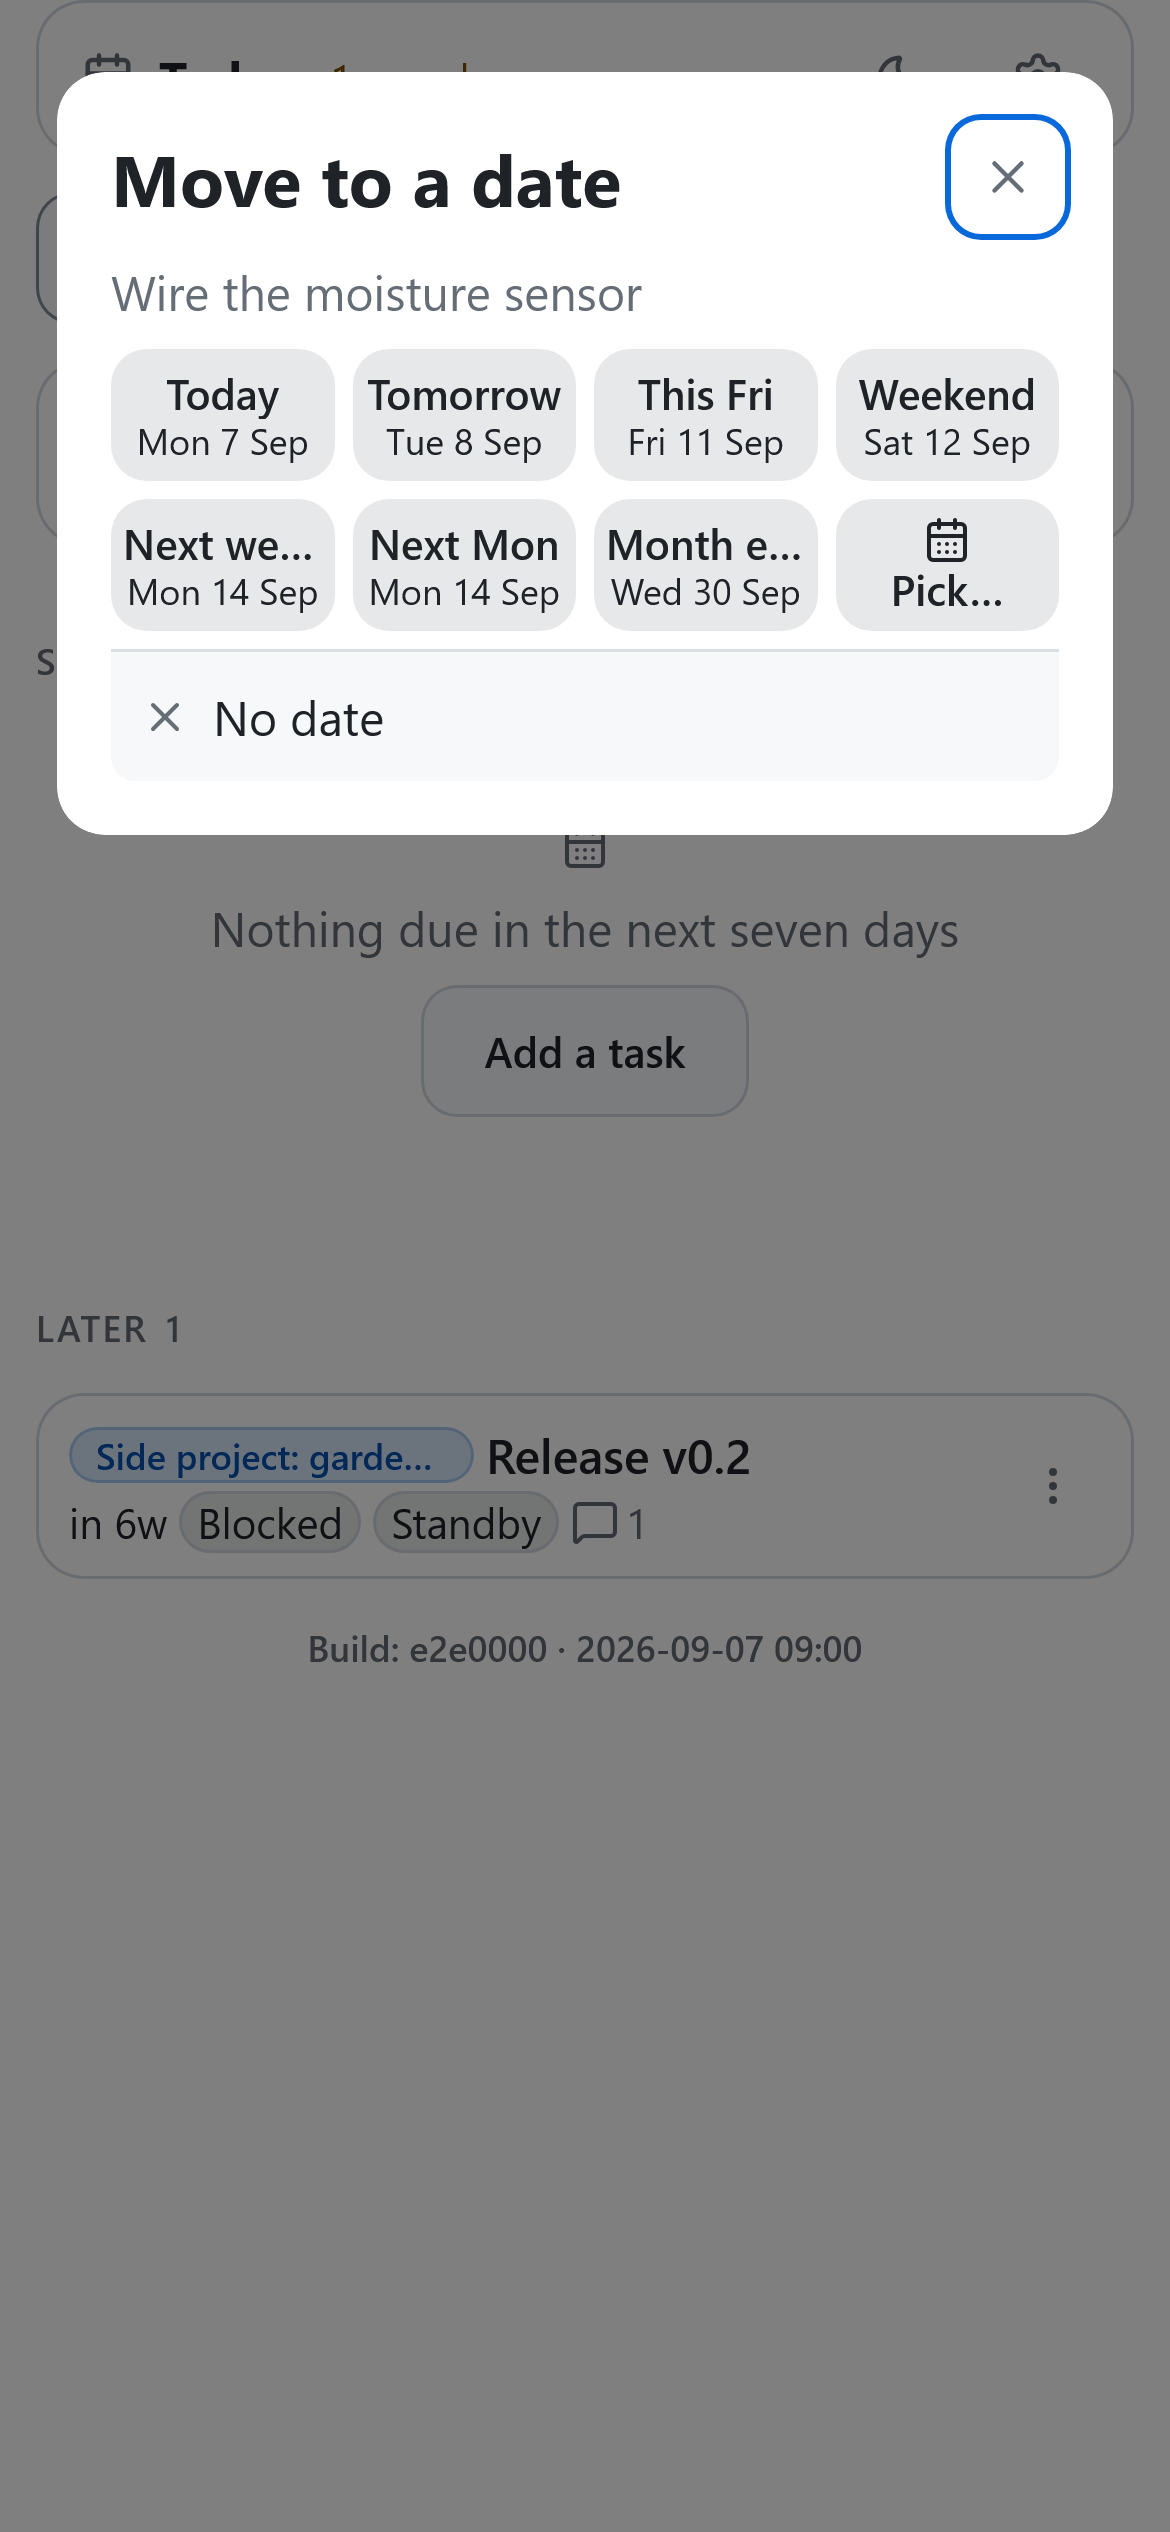
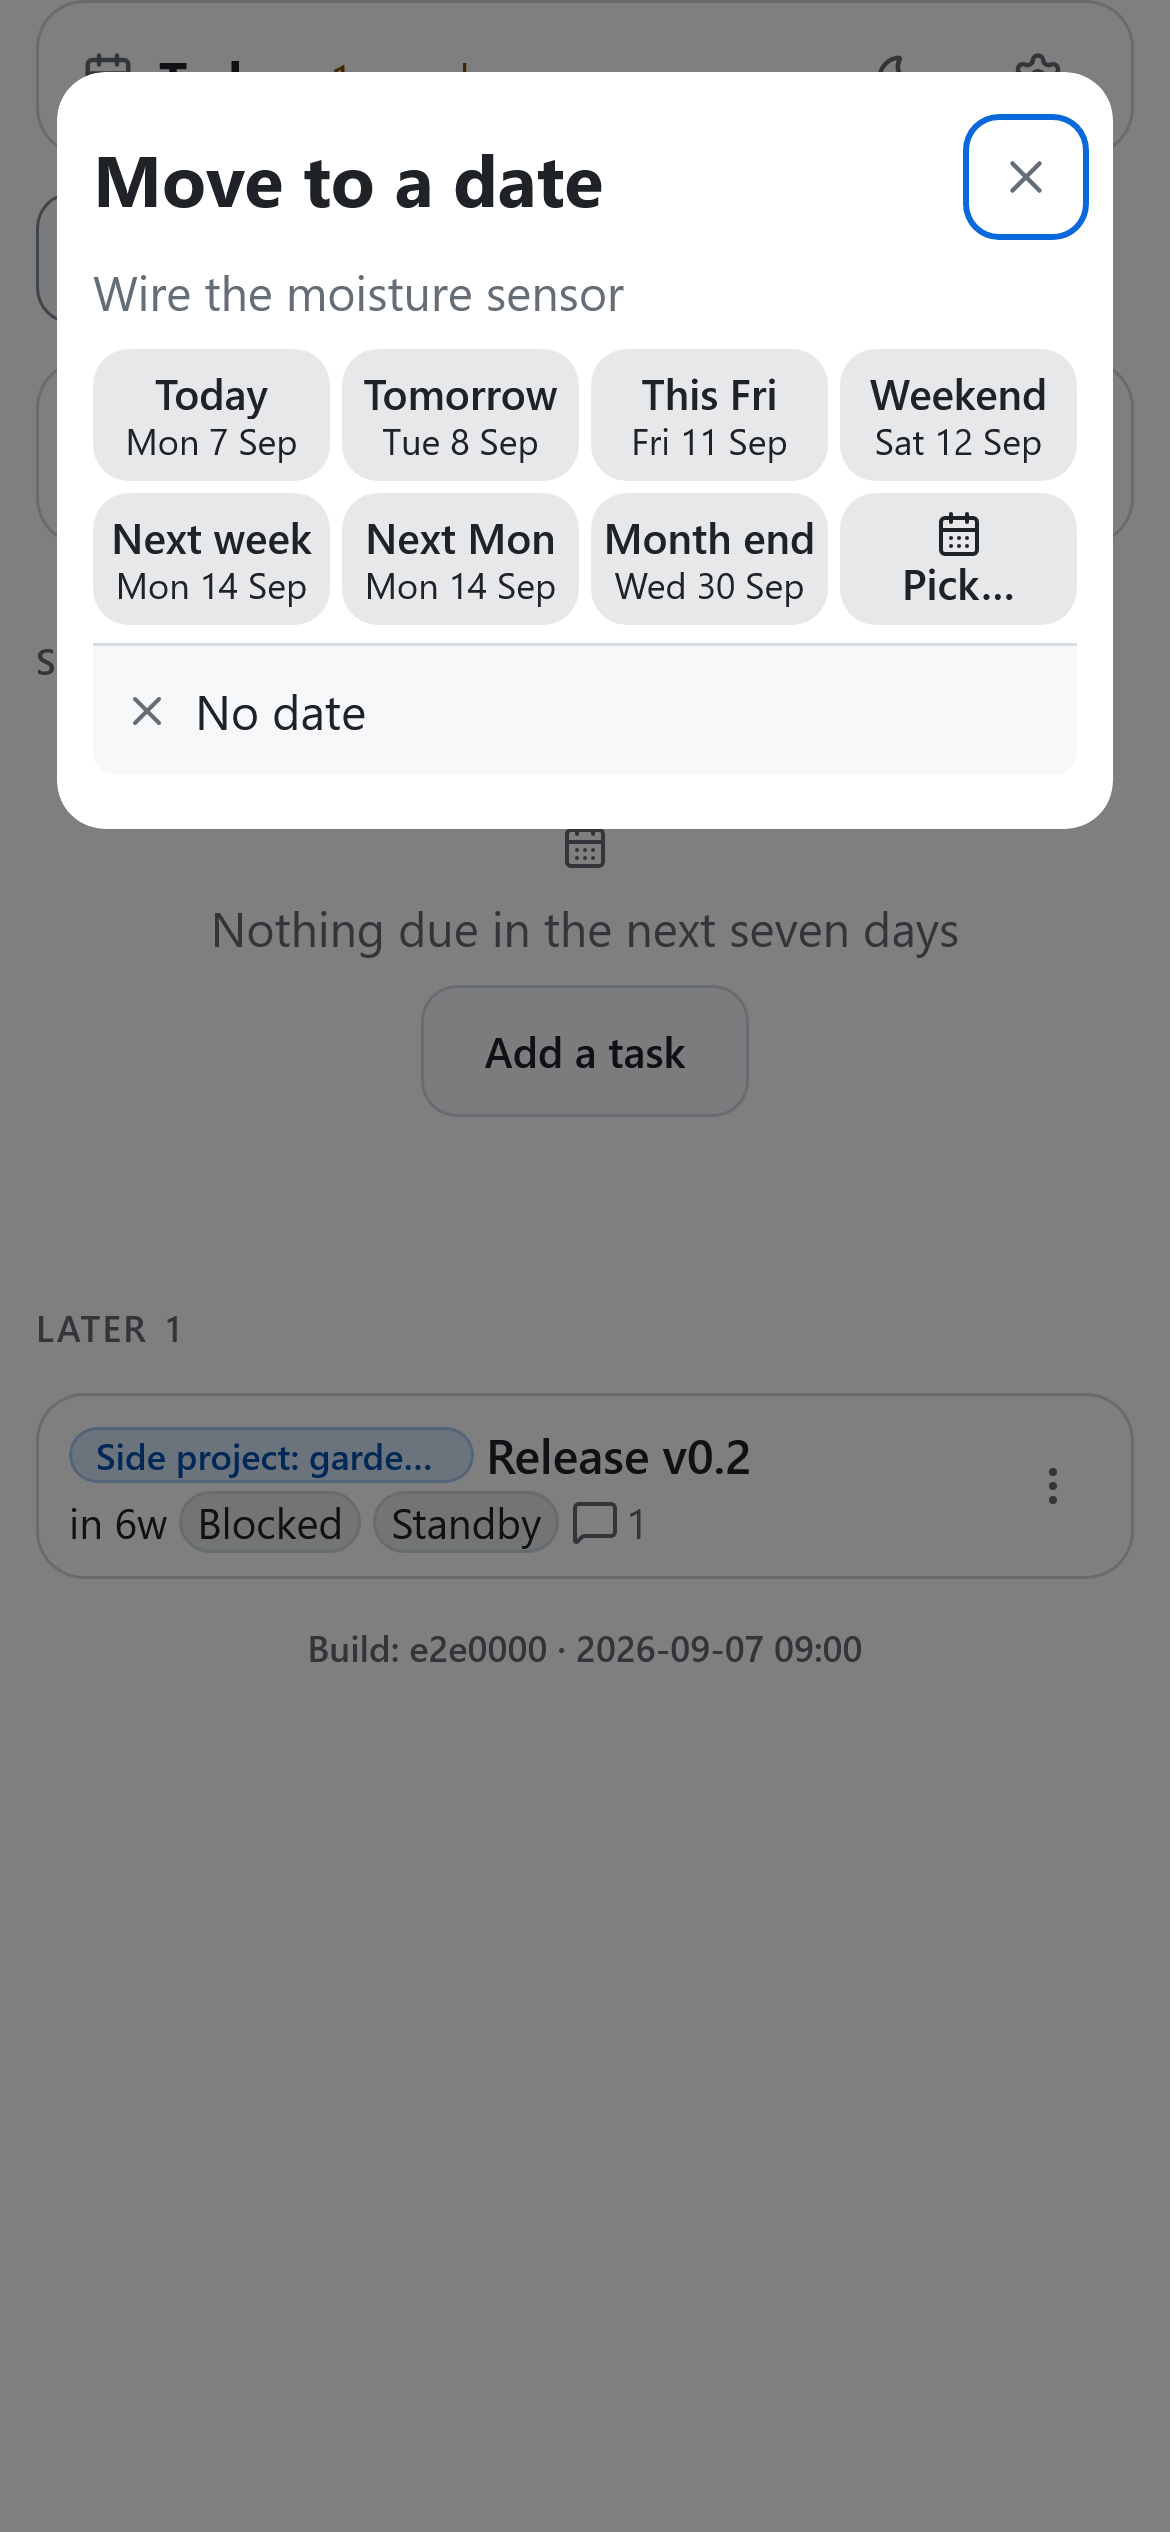
fix: keep every date chip label whole on the phone's date sheet
- At 390px the sheet's card inset left 'Next week' and 'Month end'
  ellipsized; a tighter inset and gap fit all eight
- The shared date-sheet assertion now refuses any cut label

Changed region(s): [[0.0615, 0.0624, 0.9231, 0.312], [0.8, 0.0312, 0.9538, 0.0936]]

diff --git a/app/webapp/static/styles/sheets.css b/app/webapp/static/styles/sheets.css
@@ -383,6 +383,12 @@
 .snooze-opt.date-chip[aria-current] { background: var(--accent-soft); box-shadow: inset 0 0 0 1px var(--accent-border-soft); }
 .date-chip[aria-current] .snooze-opt-label { color: var(--accent-text); }
 .date-sheet .snooze-opt.date-chip { font-size: var(--font-body-sm); }
+/* The phone's sheet is the narrowest home of the grid: the chips take the
+   card's width with a tighter gap and inset, so "Next week" and "Month end"
+   stay whole at 390px rather than ellipsize. */
+.date-card { padding-left: 12px; padding-right: 12px; }
+.date-sheet .date-chips { gap: var(--space-xs); }
+.date-sheet .snooze-opt.date-chip { padding-left: 2px; padding-right: 2px; }
 .snooze-menu > .date-chips { margin-bottom: var(--space-xs); }
 /* A shortcut key on a control: only where a keyboard is likely. */
 .key-hint {

diff --git a/tests/e2e/_ui.py b/tests/e2e/_ui.py
@@ -270,6 +270,9 @@ def assert_date_sheet(menu: Locator, base: str) -> None:
     expect(chips).to_have_count(len(DUE_SHEET) + 1)
     tops = [round(chips.nth(i).bounding_box()["y"]) for i in range(len(DUE_SHEET) + 1)]
     assert len(set(tops)) == 2 and tops[:4] == [tops[0]] * 4, f"the chips are not a 4 x 2 grid: {tops}"
+    cut = opts.locator(".snooze-opt-label").evaluate_all(
+        "els => els.filter(e => e.scrollWidth > e.clientWidth + 1).map(e => e.textContent)")
+    assert not cut, f"chip labels cut short: {cut}"
 
 
 def assert_crumb_trail(drawer: Locator) -> None:
